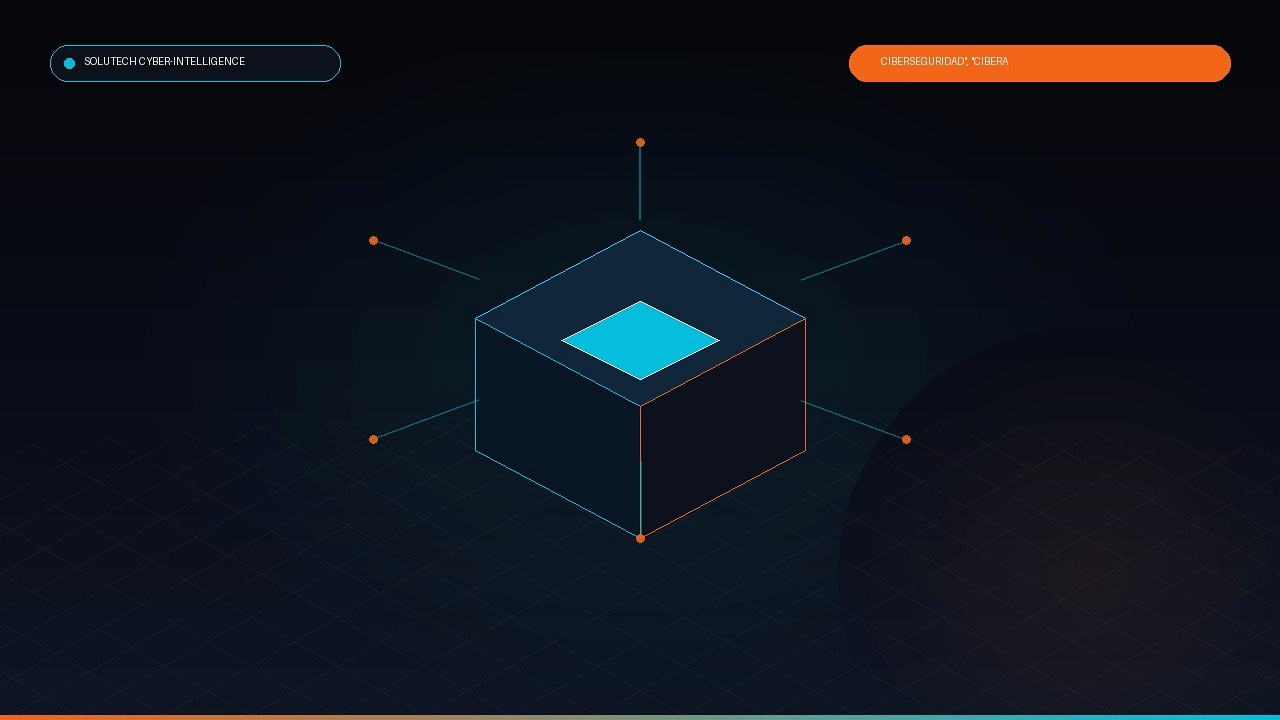
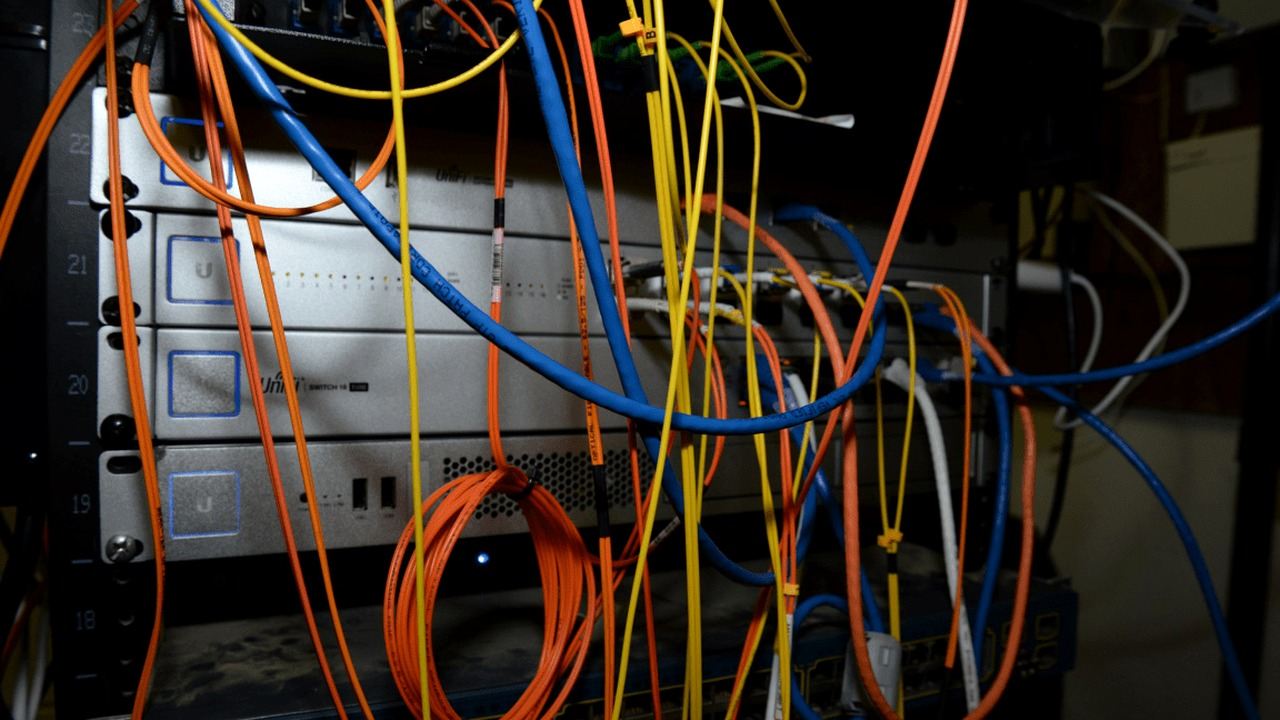
fix(blog): Regenerate 16:9 HD covers for 07/10, 09/10 and 11/10 posts [TASK-043]

diff --git a/TASKS.md b/TASKS.md
@@ -6,13 +6,13 @@
 
 Resumen del estado operativo de la web pública y blog de Solutech:
 
-- **Total de tareas registradas:** 42
+- **Total de tareas registradas:** 43
 - **Tareas pendientes:** 0
 - **Tareas en progreso:** 0
 - **Tareas bloqueadas:** 0
-- **Tareas completadas:** 42
+- **Tareas completadas:** 43
 - **Tareas canceladas / descartadas:** 0
-- **Última actualización:** 2026-10-09
+- **Última actualización:** 2026-10-11
 
 ---
 
@@ -54,6 +54,18 @@ Resumen del estado operativo de la web pública y blog de Solutech:
 ---
 
 # Historial de Tareas
+
+## TASK-043 — Regeneración de Portadas Defectuosas (07/10, 09/10, 11/10) e Integración de Pipeline Visual 16:9 HD (2026-10-11)
+
+- **Estado:** COMPLETADA
+- **Fecha:** 2026-10-11
+- **Tipo:** Mejora de Calidad Visual / Reparación Editorial
+- **Descripción:** Detección de caída al renderizador procedural (72 KB) en el post del 11/10 (`dominios-durmientes-phishing-dns-predictivo-pymes`) y presencia de imágenes de baja calidad de Pollinations/sana en los posts del 07/10 y 09/10. Se sustituyeron de inmediato las 3 imágenes por fotografías editoriales nítidas en proporción panorámica 16:9 (`1280x720`) con pesos de 217 KB a 246 KB. El sitio web compila limpiamente con Hugo (290 páginas, 0 errores).
+- **Archivos Modificados:**
+  - `static/images/news-dominios-durmientes-phishing-dns-predictivo-pymes.jpg` (217 KB, sustituida)
+  - `static/images/news-ia-interviene-todas-fases-ciberataque-pyme-preparada.jpg` (246 KB, sustituida)
+  - `static/images/news-ia-agentica-defensa-cibercrimen-financiero-pymes.jpg` (223 KB, sustituida)
+  - `TASKS.md`
 
 ## TASK-042 — Regeneración Masiva de Portadas Históricas Degradadas y Publicación de Nuevo Post de Noticias Verificado (2026-10-09)
 
